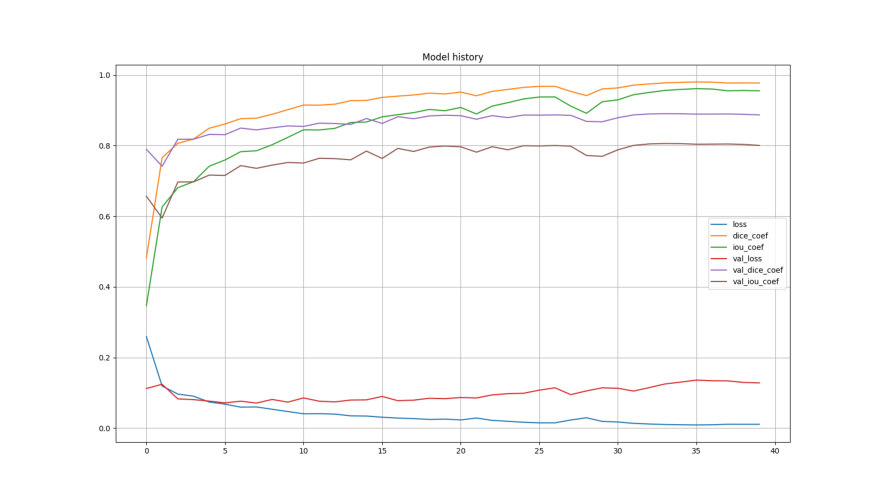
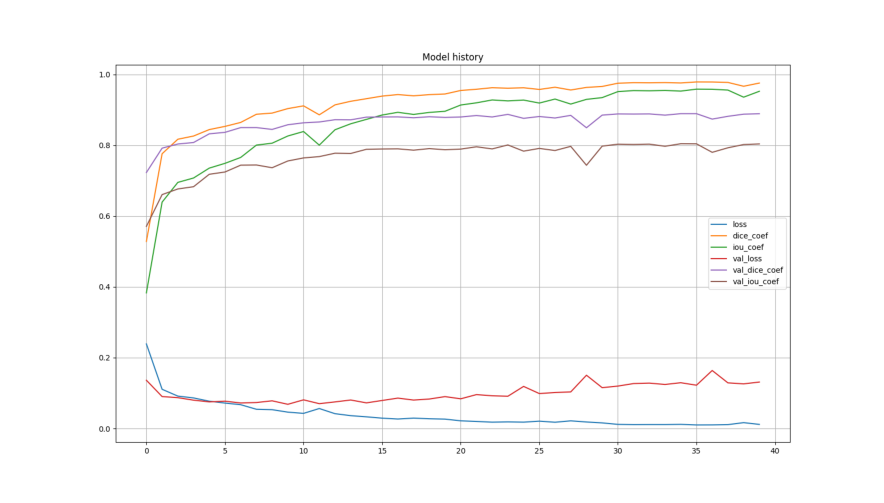
Removed the boxplots and updated the training history and the confusion matrix in README.md

diff --git a/README.md b/README.md
@@ -18,13 +18,8 @@ The used dataset contains images from 22 different patients. Each patient has be
 
 ![Best Training](./U-Net/results/best_history.png)
 
-### Dice and Jaccard scores on the test set:
-
-![Scores](./U-Net/results/best_TestScores.png)
-
-
-### Additional metrics:
-
+### Metrics:
+Different metrics on the test set
 | Segmentation            | Dice         | Jaccard (IoU)   | Specificity   | Sensitivity   | Precision    |
 |-------------------------|--------------|-----------------|---------------|---------------|--------------|
 | U-Net                   | 89.33 ± 6.07 | 81.24 ± 9.46    | 98.15 ± 1.83  | 90.65 ± 6.09  | 88.93 ± 9.73 |
